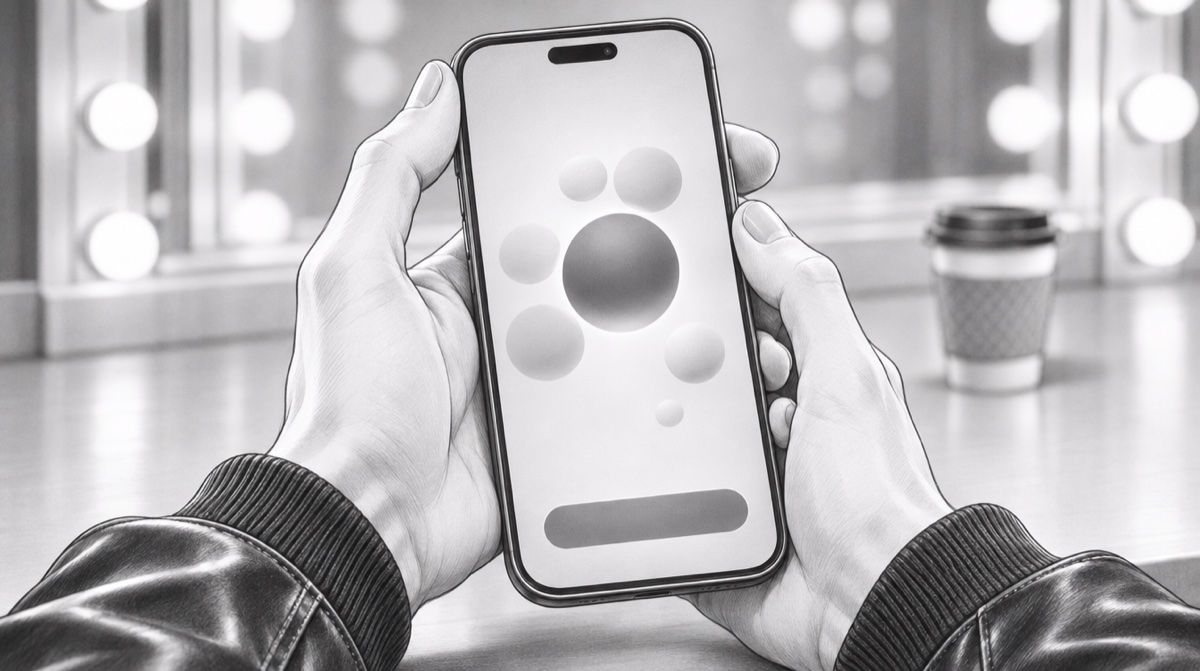
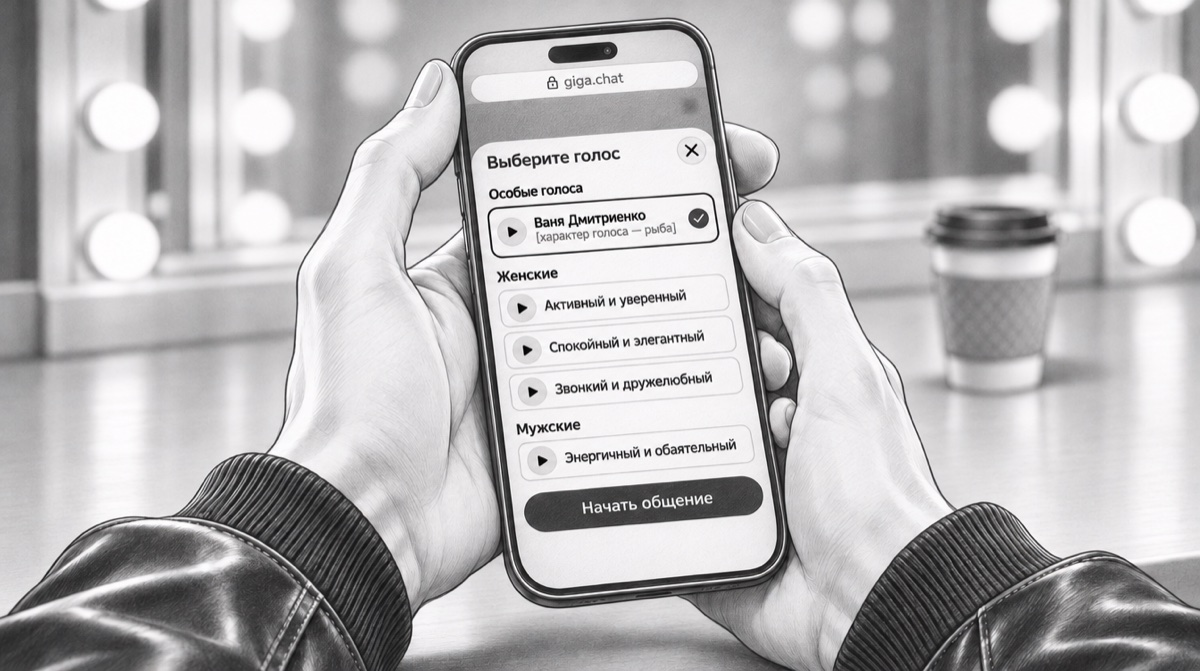
deck/vanya: 4.7 — экран выбора голоса с Ваней Дмитриенко

diff --git a/deck/vanya/index.html b/deck/vanya/index.html
@@ -213,7 +213,7 @@ footer{margin-top:auto;border-top:1px solid var(--line);padding-top:18px;display
     <h2>Гримёрка</h2>
     <p class="desc"><b>Интерьер</b>Гримёрка вся в зеркалах на всю стену, с лампами.</p>
   </div>
-  <div class="sb"><figure><a href="./media/sb/4.1-jk.jpg" target="_blank" rel="noopener"><span class="pov">POV</span><img src="./media/sb/4.1-jk.jpg" alt="Кадр 4.1" loading="lazy"></a><figcaption><span>4.1 · 14 мм · 1,5 с</span><span>открываемся из-за кофе</span></figcaption></figure><figure><a href="./media/sb/4.2-jk.jpg" target="_blank" rel="noopener"><img src="./media/sb/4.2-jk.jpg" alt="Кадр 4.2" loading="lazy"></a><figcaption><span>4.2 · статика от стола, 35 мм · 1,5 с</span><span>«Вот ты мне и скажи»</span></figcaption></figure><figure><a href="./media/sb/end-bus-ui8.jpg" target="_blank" rel="noopener"><img src="./media/sb/end-bus-ui8.jpg" alt="Кадр 4.3" loading="lazy"></a><figcaption><span>4.3 · монтаж · 0,5 с</span><span>автобус: сверху, телефон у груди</span></figcaption></figure><figure><a href="./media/sb/end-bath-ui8.jpg" target="_blank" rel="noopener"><img src="./media/sb/end-bath-ui8.jpg" alt="Кадр 4.4" loading="lazy"></a><figcaption><span>4.4 · монтаж · 0,5 с</span><span>ванная: телефон на полу</span></figcaption></figure><figure><a href="./media/sb/end-barber-ui7.jpg" target="_blank" rel="noopener"><img src="./media/sb/end-barber-ui7.jpg" alt="Кадр 4.5" loading="lazy"></a><figcaption><span>4.5 · монтаж · 0,5 с</span><span>барбершоп: телефон на соседнем кресле</span></figcaption></figure><figure><a href="./media/sb/4.6-selfie.jpg" target="_blank" rel="noopener"><img src="./media/sb/4.6-selfie.jpg" alt="Кадр 4.6" loading="lazy"></a><figcaption><span>4.6 · селфи на фронталку · 1 с</span><span>крупно лицо, взгляд в камеру</span></figcaption></figure><figure><a href="./media/sb/4.7-hands.jpg" target="_blank" rel="noopener"><img src="./media/sb/4.7-hands.jpg" alt="Кадр 4.7" loading="lazy"></a><figcaption><span>4.7 · деталь · 0,5 с</span><span>руки с телефоном, голосовой режим</span></figcaption></figure><figure><a href="./media/sb/end-pack-jk.jpg" target="_blank" rel="noopener"><img src="./media/sb/end-pack-jk.jpg" alt="Кадр 5" loading="lazy"></a><figcaption><span>5 · пэкшот · 3,5 с</span><span>Ваня с ГигаЧатом, на фоне лого</span></figcaption></figure></div><!--/sb-->
+  <div class="sb"><figure><a href="./media/sb/4.1-jk.jpg" target="_blank" rel="noopener"><span class="pov">POV</span><img src="./media/sb/4.1-jk.jpg" alt="Кадр 4.1" loading="lazy"></a><figcaption><span>4.1 · 14 мм · 1,5 с</span><span>открываемся из-за кофе</span></figcaption></figure><figure><a href="./media/sb/4.2-jk.jpg" target="_blank" rel="noopener"><img src="./media/sb/4.2-jk.jpg" alt="Кадр 4.2" loading="lazy"></a><figcaption><span>4.2 · статика от стола, 35 мм · 1,5 с</span><span>«Вот ты мне и скажи»</span></figcaption></figure><figure><a href="./media/sb/end-bus-ui8.jpg" target="_blank" rel="noopener"><img src="./media/sb/end-bus-ui8.jpg" alt="Кадр 4.3" loading="lazy"></a><figcaption><span>4.3 · монтаж · 0,5 с</span><span>автобус: сверху, телефон у груди</span></figcaption></figure><figure><a href="./media/sb/end-bath-ui8.jpg" target="_blank" rel="noopener"><img src="./media/sb/end-bath-ui8.jpg" alt="Кадр 4.4" loading="lazy"></a><figcaption><span>4.4 · монтаж · 0,5 с</span><span>ванная: телефон на полу</span></figcaption></figure><figure><a href="./media/sb/end-barber-ui7.jpg" target="_blank" rel="noopener"><img src="./media/sb/end-barber-ui7.jpg" alt="Кадр 4.5" loading="lazy"></a><figcaption><span>4.5 · монтаж · 0,5 с</span><span>барбершоп: телефон на соседнем кресле</span></figcaption></figure><figure><a href="./media/sb/4.6-selfie.jpg" target="_blank" rel="noopener"><img src="./media/sb/4.6-selfie.jpg" alt="Кадр 4.6" loading="lazy"></a><figcaption><span>4.6 · селфи на фронталку · 1 с</span><span>крупно лицо, взгляд в камеру</span></figcaption></figure><figure><a href="./media/sb/4.7-hands.jpg" target="_blank" rel="noopener"><img src="./media/sb/4.7-hands.jpg" alt="Кадр 4.7" loading="lazy"></a><figcaption><span>4.7 · деталь · 0,5 с</span><span>руки с телефоном, выбран голос Вани</span></figcaption></figure><figure><a href="./media/sb/end-pack-jk.jpg" target="_blank" rel="noopener"><img src="./media/sb/end-pack-jk.jpg" alt="Кадр 5" loading="lazy"></a><figcaption><span>5 · пэкшот · 3,5 с</span><span>Ваня с ГигаЧатом, на фоне лого</span></figcaption></figure></div><!--/sb-->
   <div class="shots">
     <div class="shot pov">
       <div class="cam"><span>POV · вопрос</span><span>от телефона</span></div>
@@ -226,7 +226,7 @@ footer{margin-top:auto;border-top:1px solid var(--line);padding-top:18px;display
     </div>
     <div class="shot">
       <div class="cam"><span>Ответ</span><span>кадры 4.6 и 5</span></div>
-      <p>4.6: Ваня снимает себя сам на фронталку, в кадре только крупно лицо, телефона не видно. Ваня слушает ответ и поднимает взгляд в камеру. 4.7: крупно руки Вани с телефоном, <mark>открыт голосовой режим ГигаЧата</mark>. 5: Ваня за гримёрным столом, телефон у уха, рядом стакан кофе. За ним зеркало с лампами и лого ГигаЧата.</p>
+      <p>4.6: Ваня снимает себя сам на фронталку, в кадре только крупно лицо, телефона не видно. Ваня слушает ответ и поднимает взгляд в камеру. 4.7: крупно руки Вани с телефоном, на экране выбор голоса, <mark>выбран «Ваня Дмитриенко»</mark>. 5: Ваня за гримёрным столом, телефон у уха, рядом стакан кофе. За ним зеркало с лампами и лого ГигаЧата.</p>
       <div class="line"><span class="who">ГигаЧат голосом Вани</span><q>Вот ты мне и скажи</q></div>
     </div>
     <div class="shot">
